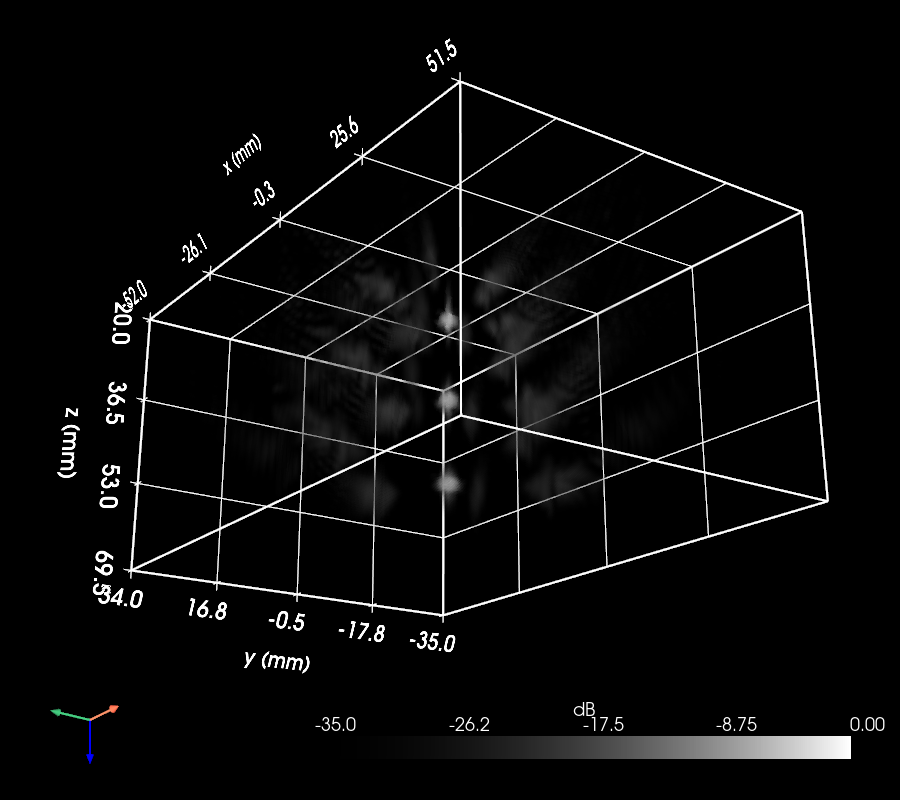
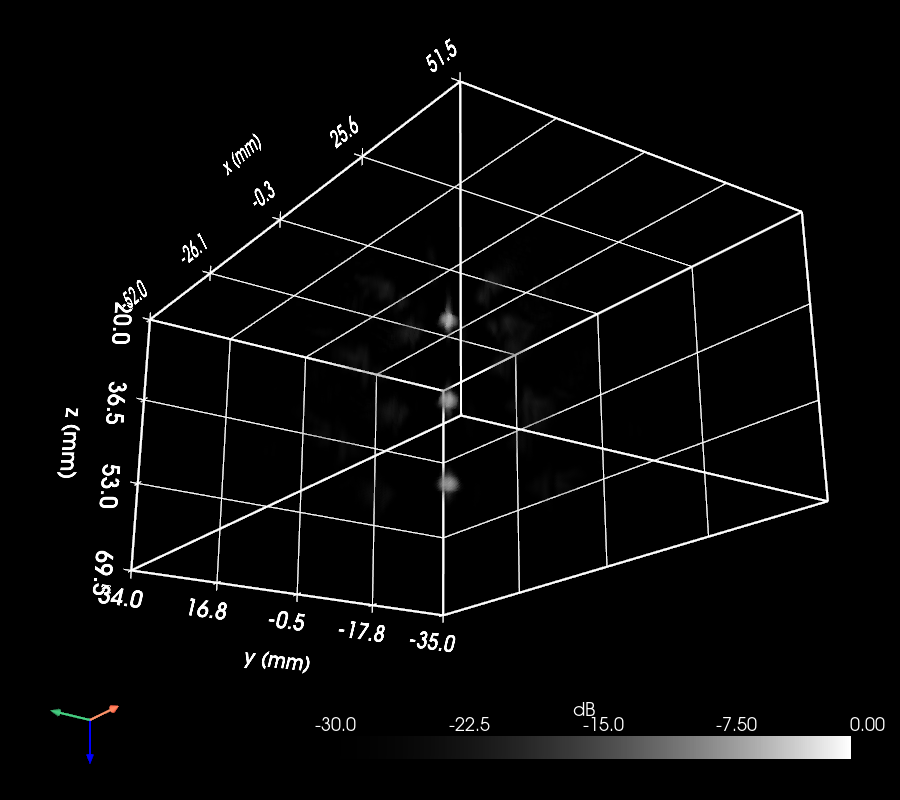
fix(examples): example24 -30 dB render/map floor, profile to -50 dB
Volume render window and the 2D xz/xy PSF map panels both floor at -30 dB; the lateral profile line keeps its -50 dB axis (fine planes still clipped at -60 dB) so the grating-lobe ladder stays visible below the maps' floor.

diff --git a/examples/example24_multilens_matrix_psf.py b/examples/example24_multilens_matrix_psf.py
@@ -53,7 +53,7 @@ DEPTHS_MM = [30.0, 45.0, 60.0]  # paper's three scatterer depths
 NO_SUB = 20  # patches per element diameter: 10 under-resolves the cap directivity
 # (-6 dB half-angle 28 deg vs the paper's 33 deg); 20 recovers it. 252 caps x 16 TX is
 # heavy, so this is the smallest subdivision that keeps the element physically faithful.
-DB_FLOOR = -40.0  # display floor (grating lobes sit near -22 dB in the paper)
+DB_FLOOR = -30.0  # display floor of the 2D map panels (grating lobes sit near -22 dB)
 
 # One diverging cap, reused from example 23 (the free-aspheric fit), then tiled.
 element = optimized_aspheric(no_sub_diameter=NO_SUB)
@@ -206,8 +206,8 @@ def fine_plane(depth_mm, datum_z_mm):
         t_offset_s=datum_offset_s(datum_z_mm),
     )
     fenv = np.abs(hilbert(fvol, axis=2))
-    # Clip to -60 dB (below the -40 dB maps) so the lateral profile plot resolves the
-    # full side/grating-lobe ladder down to its -59 dB axis; widths/lobe levels unaffected.
+    # Clip to -60 dB (below the -30 dB maps) so the lateral profile plot resolves the
+    # full side/grating-lobe ladder down to its -50 dB axis; widths/lobe levels unaffected.
     fdb = 20 * np.log10(np.clip(fenv / fenv.max(), 10 ** (-60.0 / 20), None))
     return fax["x_mm"], fax["z_mm"], fdb[:, 0, :]
 
@@ -279,9 +279,7 @@ iz_mid = int(np.argmin(np.abs(z_mm - DEPTHS_MM[1])))
 # axis pointing DOWN, the ultrasound depth convention, so the probe is at the top and the
 # three targets below it. Rendered twice: once with the probe mesh overlaid (its 252 caps
 # at z=0, above the box) and once with the volume alone.
-RENDER_FLOOR = (
-    -35.0
-)  # display window for the volume render (tighter than the -40 dB data)
+RENDER_FLOOR = -30.0  # display window for the volume render
 import pyvista as pv  # noqa: E402 — deferred so a headless import failure is obvious
 
 img = pv.ImageData(
@@ -354,7 +352,7 @@ ax[1].set(
     ylabel="dB",
     title="lateral PSF vs depth",
     xlim=(-50, 50),
-    ylim=(-59, 0),
+    ylim=(-50, 0),
 )
 ax[1].legend(loc="upper right")
 m1 = ax[2].pcolormesh(

diff --git a/docs/examples/example24_multilens_matrix_psf.md b/docs/examples/example24_multilens_matrix_psf.md
@@ -17,7 +17,7 @@ everywhere. This example reproduces it with
 [`CustomTransducer`][esdiva.transducers.CustomTransducer] (252 copies of the example-23
 free-aspheric cap), fires the 16-source sequence at three point targets, delay-and-sums the
 compounded echoes into a 3-D volume, and renders it the way the paper does — grayscale, in
-dB, with a linear opacity transfer function over a −35 dB display window.
+dB, with a linear opacity transfer function over a −30 dB display window.
 
 [Source on GitHub](https://github.com/EstebanRivera08/eSDIva/blob/main/examples/example24_multilens_matrix_psf.py)
 
@@ -87,8 +87,8 @@ evidence that the lens curvature — not the array aperture — set the earlier 
 
 The beamformed volume is envelope-detected along depth, log-compressed to dB, and
 volume-rendered with PyVista using a **grayscale** colormap, a **linear** opacity transfer
-function over a **−35 dB** display window (opacity ramps linearly from transparent at
-−35 dB to opaque at 0 dB), and the **`"smart"`** volume mapper (ray-cast). A dark theme
+function over a **−30 dB** display window (opacity ramps linearly from transparent at
+−30 dB to opaque at 0 dB), and the **`"smart"`** volume mapper (ray-cast). A dark theme
 (black background, **all text white** — ruler,
 colorbar, box, axes) with the z axis pointing **down** (`camera.up = (0, 0, −1)`, the
 ultrasound depth convention) puts the probe at the top and the three targets below. The
